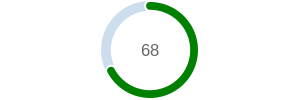
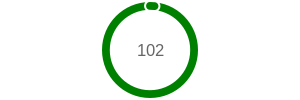
update jam 15.23

Changed region(s): [[0.33, 0.0, 0.54, 0.72], [0.45, 0.42, 0.57, 0.57]]

diff --git a/templates/line_chart.html b/templates/line_chart.html
@@ -79,6 +79,7 @@
 
         .progress-container {
             display: flex;
+            flex-direction: column;
             align-items: center;
             transition: transform 0.3s ease;
         }
@@ -88,7 +89,7 @@
         }
 
         .progress-container img {
-            margin-left: 10px;
+            margin-bottom: 10px;
         }
 
         .radial-gauge-wrapper {
@@ -132,16 +133,16 @@
             </tbody>
         </table>
 
-        <canvas id="myChart" width="500" height="300"></canvas>
+        <canvas id="myChart" width="450" height="250"></canvas>
         <h2>E-COURT</h2>
         <div class="progress-wrapper">
             <div class="progress-container">
-                <span>Gugatan</span>
                 <img src="{{ progress_bar_url_gugatan }}" alt="Progress Bar Gugatan" />
+                <span>Gugatan</span>
             </div>
             <div class="progress-container">
-                <span>Permohonan</span>
                 <img src="{{ progress_bar_url_permohonan }}" alt="Progress Bar Permohonan" />
+                <span>Permohonan</span>
             </div>
         </div>
 
@@ -150,6 +151,7 @@
             <img src="{{ radial_chart_url_gugatan }}" alt="Radial Gauge Chart Gugatan">
             <img src="{{ radial_chart_url_permohonan }}" alt="Radial Gauge Chart Permohonan">
         </div>
+        
         <div class="footer">
             &copy; 2024 Statistik Perkara. All rights reserved.
         </div>

diff --git a/app/routes/line_chart.py b/app/routes/line_chart.py
@@ -35,6 +35,16 @@ def line_chart():
     # Extract E-Court data from the CSV
     e_court_gugatan = float(table[table['PERKARA'] == 'Gugatan']['E-COURT'].str.rstrip('%').values[0])
     e_court_permohonan = float(table[table['PERKARA'] == 'Permohonan']['E-COURT'].str.rstrip('%').values[0])
+    
+    # Menghitung rasio penyelesaian perkara
+    # jumlah_gugatan = float(table[table['PERKARA'] == 'Gugatan']['MASUK'].values[0]) 
+    # jumlah_gugatan_putus = float(table[table['PERKARA'] == 'Gugatan']['PUTUS'].values[0])
+    # rasio_gugatan = jumlah_gugatan_putus / jumlah_gugatan * 100
+    
+
+    # jumlah_permohonan = float(table[table['PERKARA'] == 'Permohonan']['MASUK'].values[0])
+    # jumlah_permohonan_putus = float(table[table['PERKARA'] == 'Permohonan']['PUTUS'].values[0])
+    # rasio_permohonan = jumlah_permohonan_putus / jumlah_permohonan * 100
 
     # Create QuickChart progress bar for Gugatan
     qc_gugatan = QuickChart()
@@ -73,6 +83,8 @@ def line_chart():
     progress_bar_url_permohonan = qc_permohonan.get_url()
 
     # Generate a radial gauge chart for Gugatan using QuickChart
+    rasio_gugatan = float(table[table['PERKARA'] == 'Gugatan']['PUTUS'].values[0]) / float(table[table['PERKARA'] == 'Gugatan']['MASUK'].values[0]) * 100
+    
     qc_radial_gugatan = QuickChart()
     qc_radial_gugatan.width = 300
     qc_radial_gugatan.height = 100
@@ -82,7 +94,7 @@ def line_chart():
         "data": {
             "datasets": [
                 {
-                    "data": [e_court_gugatan],  # Use actual data for Gugatan
+                    "data": [rasio_gugatan],  # Use actual data for Gugatan
                     "backgroundColor": "green"
                 }
             ]
@@ -92,6 +104,7 @@ def line_chart():
     qc_radial_gugatan.to_file('mychart_gugatan.png')
 
     # Generate a radial gauge chart for Permohonan using QuickChart
+    rasio_permohonan = float(table[table['PERKARA'] == 'Permohonan']['PUTUS'].values[0]) / float(table[table['PERKARA'] == 'Permohonan']['MASUK'].values[0]) * 100
     qc_radial_permohonan = QuickChart()
     qc_radial_permohonan.width = 300
     qc_radial_permohonan.height = 100
@@ -101,7 +114,7 @@ def line_chart():
         "data": {
             "datasets": [
                 {
-                    "data": [e_court_permohonan],  # Use actual data for Permohonan
+                    "data": [rasio_permohonan] ,  # Use actual data for Permohonan
                     "backgroundColor": "green"
                 }
             ]
